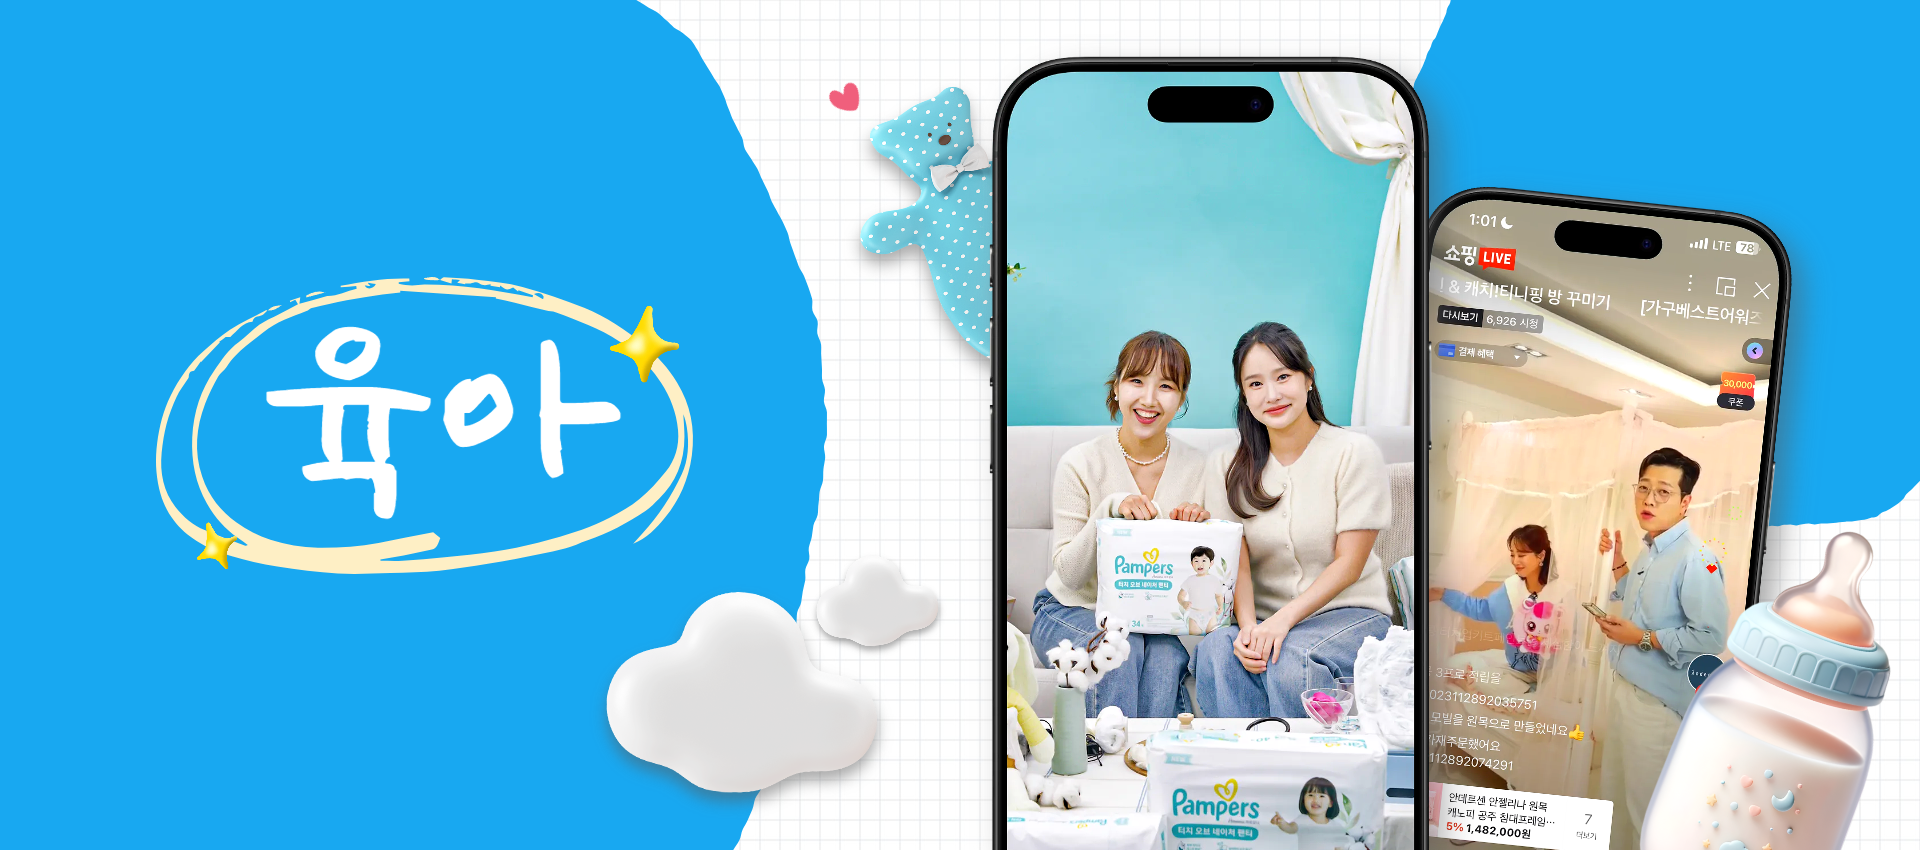
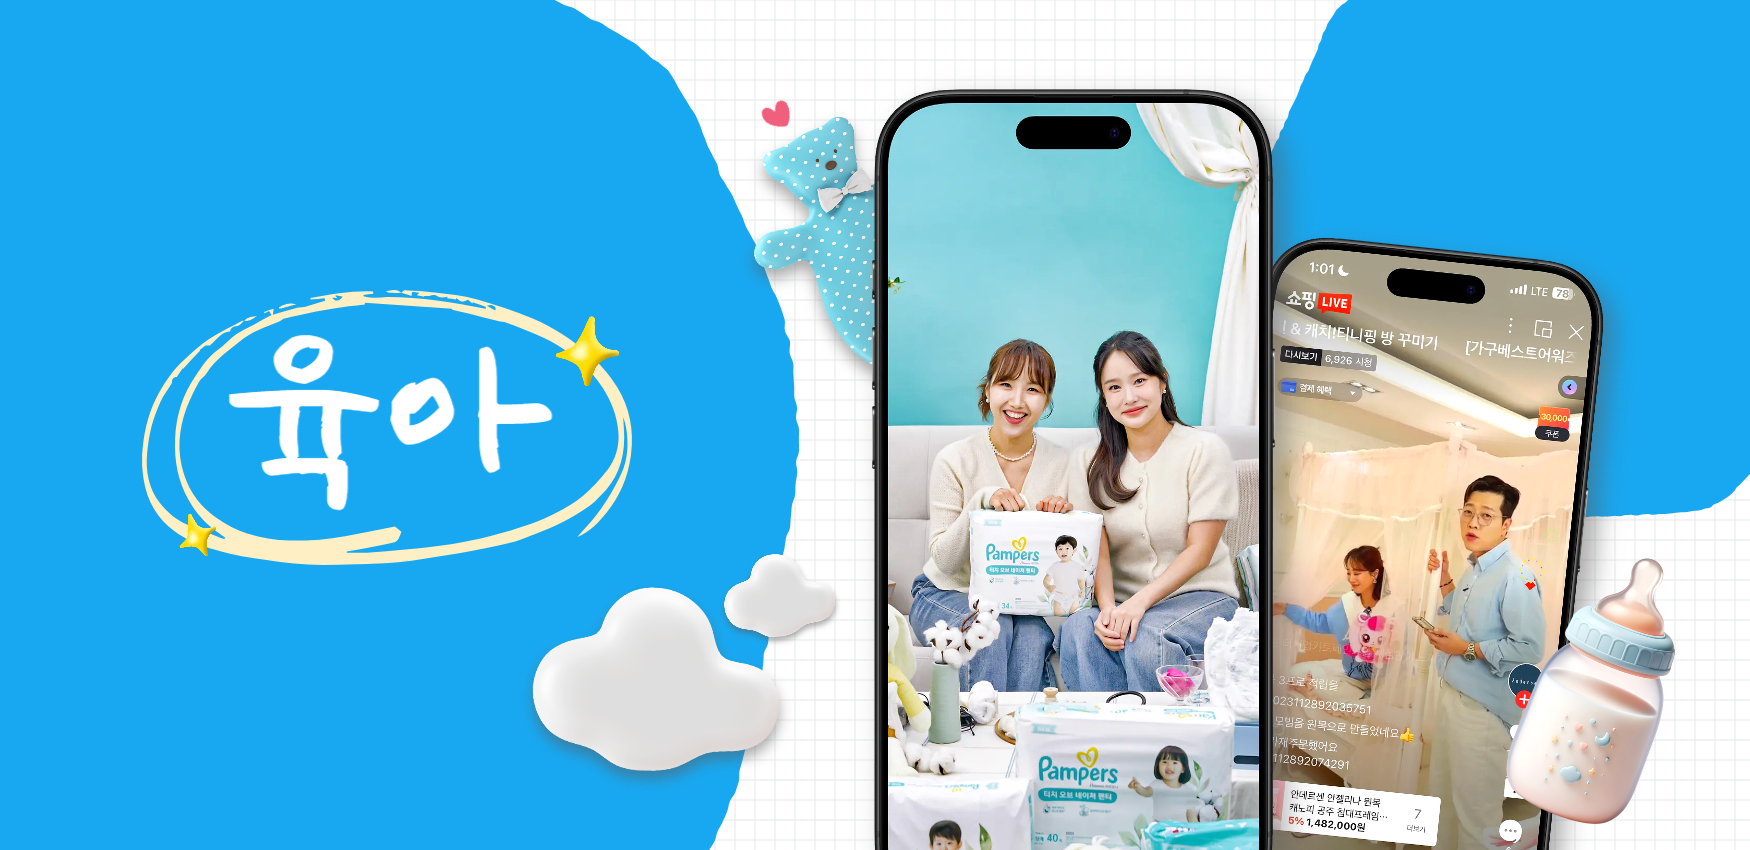
모든 파일의 최신 변경사항 반영

diff --git a/style.css b/style.css
@@ -1,3 +1,59 @@
+/* 모바일 반응형 스타일 */
+@media (max-width: 768px) {
+  .container {
+    width: 100%;
+    max-width: 100%;
+    padding: 0 10px;
+  }
+  .header .container {
+    flex-direction: column;
+    align-items: flex-start;
+    padding: 10px 0;
+  }
+  .logo img {
+    max-width: 150px;
+    height: auto;
+  }
+  .nav ul {
+    flex-direction: column;
+    gap: 10px;
+    width: 100%;
+    padding: 0;
+  }
+  .hero {
+    width: 100vw;
+    height: 300px;
+    padding: 0;
+    min-width: 0;
+  }
+  .hero .container {
+    max-width: 100vw;
+    padding: 0 10px;
+  }
+  .services-list {
+    flex-direction: column;
+    gap: 20px;
+  }
+  .portfolio-grid {
+    display: flex;
+    flex-direction: column;
+    gap: 20px;
+  }
+  .portfolio-item img {
+    width: 100%;
+    height: auto;
+  }
+  .service-item {
+    min-width: 0;
+    width: 100%;
+  }
+  .news-list {
+    padding: 0 5px;
+  }
+  .footer .container {
+    padding: 10px 0;
+  }
+}
 /* Reset / 기본 스타일 */
 * {
   margin: 0;
@@ -58,7 +114,7 @@ ul {
 .hero {
   background-size: cover;
   background-position: center;
-  width: 1920px;
+  width: 1750px;
   height: 850px;
   margin: 0 auto;
   padding: 0;

diff --git a/index.html b/index.html
@@ -46,8 +46,27 @@ function rotateBackground() {
   hero.style.backgroundImage = `url('${images[idx]}')`;
   idx = (idx + 1) % images.length;
 }
-rotateBackground();
-setInterval(rotateBackground, 4000); // 4초마다 변경
+hero.style.transition = 'background-image 0.5s ease-in-out';
+
+function fadeOutIn(callback) {
+  hero.style.opacity = 0;
+  setTimeout(() => {
+    callback();
+    hero.style.opacity = 1;
+  }, 500);
+}
+
+function rotateBackgroundWithFade() {
+  fadeOutIn(() => {
+    hero.style.backgroundImage = `url('${images[idx]}')`;
+    idx = (idx + 1) % images.length;
+  });
+}
+
+// 초기 상태
+hero.style.opacity = 1;
+rotateBackgroundWithFade();
+setInterval(rotateBackgroundWithFade, 5000); // 5초마다 변경
 </script>
 
   <!-- 서비스 / 주요업무 섹션 -->
